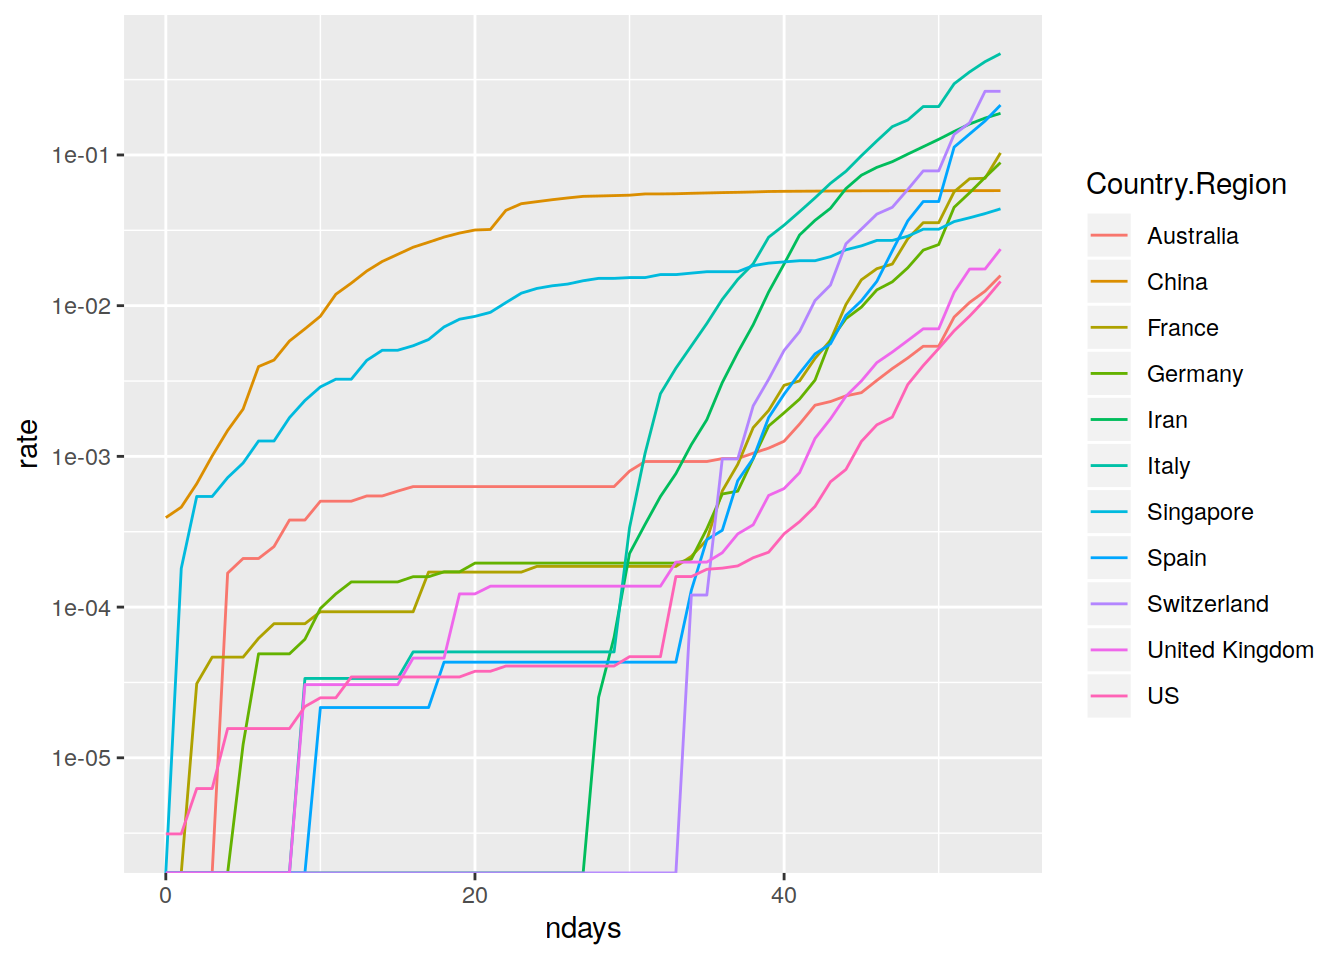
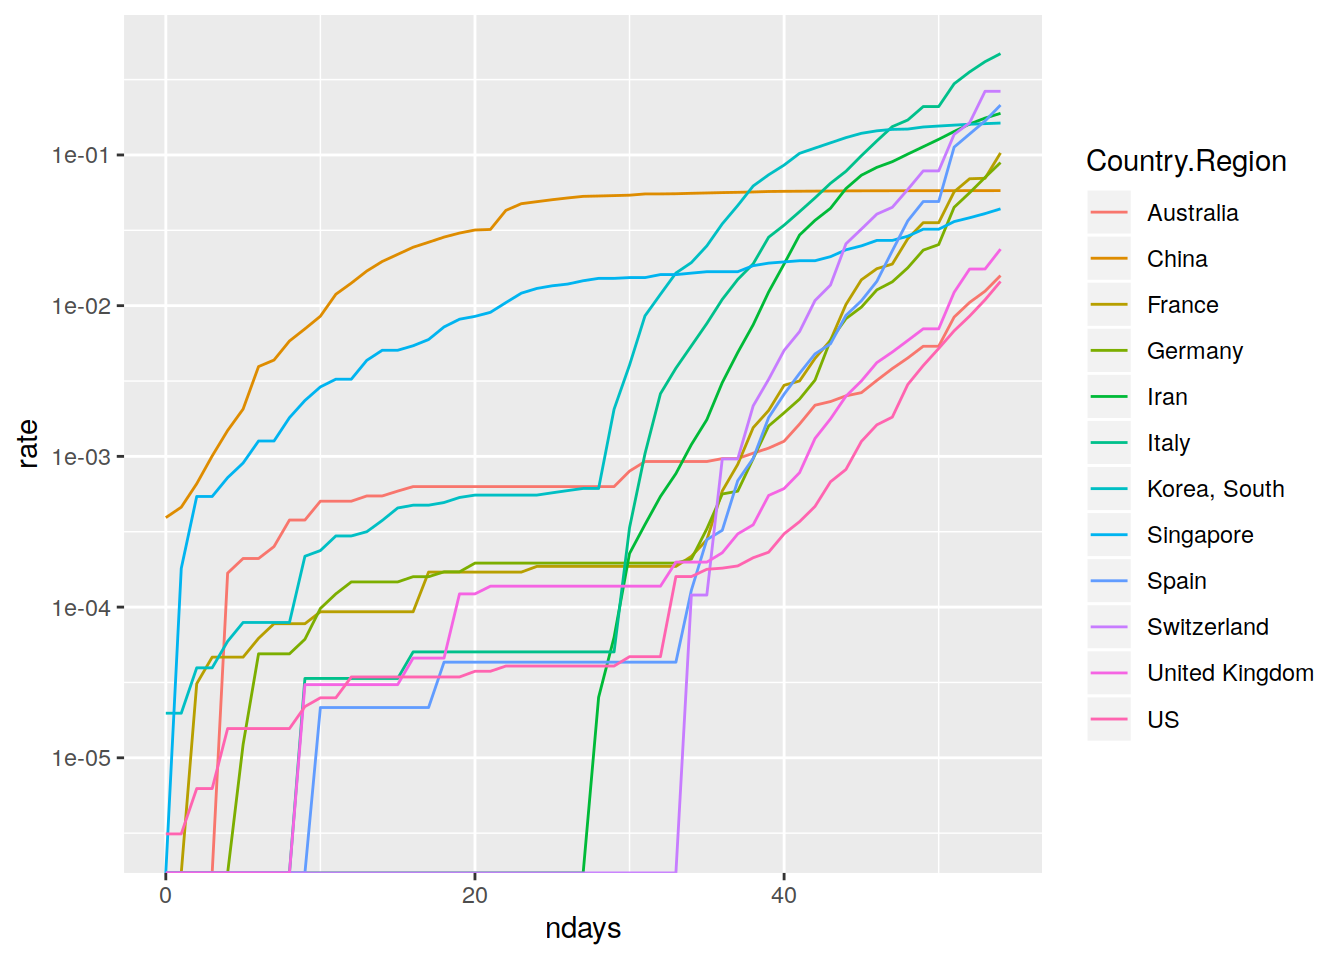
Build site.

diff --git a/docs/basic_stats.html b/docs/basic_stats.html
@@ -497,15 +497,18 @@ This reproducible <a href="http://rmarkdown.rstudio.com">R Markdown</a> analysis
 <div class="panel panel-default">
 <div class="panel-heading">
 <p class="panel-title">
-<a data-toggle="collapse" data-parent="#workflowr-checks" href="#strongRepositoryversionstrongahrefhttpsgithubcomdewollercovid19tree7469906fb467abd7d18bf921093e4bd661c5374ctargetblank7469906a"> <span class="glyphicon glyphicon-ok text-success" aria-hidden="true"></span> <strong>Repository version:</strong> <a href="https://github.com/dewoller/covid-19/tree/7469906fb467abd7d18bf921093e4bd661c5374c" target="_blank">7469906</a> </a>
+<a data-toggle="collapse" data-parent="#workflowr-checks" href="#strongRepositoryversionstrongahrefhttpsgithubcomdewollercovid19tree43b8f4bdf6f402cc824a9db5c4cd2e4e851cbe11targetblank43b8f4ba"> <span class="glyphicon glyphicon-ok text-success" aria-hidden="true"></span> <strong>Repository version:</strong> <a href="https://github.com/dewoller/covid-19/tree/43b8f4bdf6f402cc824a9db5c4cd2e4e851cbe11" target="_blank">43b8f4b</a> </a>
 </p>
 </div>
[2 lines of base64/hex data omitted]
 <div class="panel-body">
 <p>
 Great! You are using Git for version control. Tracking code development and connecting the code version to the results is critical for reproducibility. The version displayed above was the version of the Git repository at the time these results were generated. <br><br> Note that you need to be careful to ensure that all relevant files for the analysis have been committed to Git prior to generating the results (you can use <code>wflow_publish</code> or <code>wflow_git_commit</code>). workflowr only checks the R Markdown file, but you know if there are other scripts or data files that it depends on. Below is the status of the Git repository when the results were generated:
 </p>
 <pre><code>
+Ignored files:
+    Ignored:    analysis/figure/
+
 Untracked files:
     Untracked:  analysis/hospital_beds.Rmd
     Untracked:  data/aihw-hse-233-data-tables.xlsx
@@ -549,6 +552,40 @@ Message
 </tr>
 </thead>
 <tbody>
+<tr>
+<td>
+Rmd
+</td>
+<td>
+<a href="https://github.com/dewoller/covid-19/blob/43b8f4bdf6f402cc824a9db5c4cd2e4e851cbe11/analysis/basic_stats.Rmd" target="_blank">43b8f4b</a>
+</td>
+<td>
+Dennis Wollersheim
+</td>
+<td>
+2020-03-17
+</td>
+<td>
+wflow_publish(“analysis/basic_stats.Rmd”)
+</td>
+</tr>
+<tr>
+<td>
+html
+</td>
+<td>
+<a href="https://rawcdn.githack.com/dewoller/covid-19/4ed0138dc9c601214721e28e2755bd20920ec716/docs/basic_stats.html" target="_blank">4ed0138</a>
+</td>
+<td>
+Dennis Wollersheim
+</td>
+<td>
+2020-03-16
+</td>
+<td>
+Build site.
+</td>
+</tr>
 <tr>
 <td>
 html
@@ -801,22 +838,39 @@ pop %&gt;%
 mapping = tribble(
                   ~Country.Region, ~name, 
                   &#39;US&#39;, &#39;United States of America&#39;,
-                  &#39;UK&#39;, &#39;United Kingdom&#39;,
-                  &#39;Mainland China&#39;, &#39;China&#39;,
-                  &#39;South Korea&#39;, &#39;Republic of Korea&#39;,
-                  &#39;Taiwan&#39;,&#39;China, Taiwan Province of China&#39;,
+                  &#39;United Kingdom&#39;, &#39;United Kingdom&#39;,
+                  &#39;China&#39;, &#39;China&#39;,
+                  &#39;Korea, South&#39;, &#39;Republic of Korea&#39;,
+                  &#39;Taiwan*&#39;,&#39;China, Taiwan Province of China&#39;,
                   &#39;Vietnam&#39;, &#39;Viet Nam&#39;,
-                  &#39;Hong Kong&#39;, &#39;China, Hong Kong SAR&#39;,
                   &#39;Russia&#39;, &#39;Russian Federation&#39;,
                   &#39;Iran&#39;,&#39;Iran (Islamic Republic of)&#39;
 )
 
-
 coronavirus %&gt;%
+  as_tibble() %&gt;%
   left_join( mapping ) %&gt;% 
+  mutate( name = ifelse(is.na(name), Country.Region, name)) %&gt;%
   { . } -&gt; coronavirus</code></pre>
 <pre><code>Joining, by = &quot;Country.Region&quot;</code></pre>
-<pre class="r"><code>coronavirus %&gt;%
+<pre class="r"><code>if (FALSE) {
+  mapping %&gt;% 
+    anti_join( coronavirus)
+
+  mapping %&gt;% 
+    anti_join( pop )
+
+  coronavirus %&gt;%
+    left_join( mapping ) %&gt;% 
+    as_tibble() %&gt;%
+    distinct(name) %&gt;% 
+    { . } -&gt; ac
+      pop %&gt;% 
+        filter( !str_detect(as.character(name), &#39;WORLD|countries|regions&#39;) ) %&gt;%
+        distinct(name) %&gt;% anti_join(ac)
+}
+
+coronavirus %&gt;%
   filter( type==&#39;confirmed&#39; ) %&gt;%
   group_by( Country.Region ) %&gt;%
   summarise( cases = sum(cases)) %&gt;%
@@ -865,6 +919,17 @@ Date
 </tr>
 </thead>
 <tbody>
+<tr>
+<td>
+<a href="https://github.com/dewoller/covid-19/blob/4ed0138dc9c601214721e28e2755bd20920ec716/docs/figure/basic_stats.Rmd/unnamed-chunk-1-1.png" target="_blank">4ed0138</a>
+</td>
+<td>
+Dennis Wollersheim
+</td>
+<td>
+2020-03-16
+</td>
+</tr>
 <tr>
 <td>
 <a href="https://github.com/dewoller/covid-19/blob/7469906fb467abd7d18bf921093e4bd661c5374c/docs/figure/basic_stats.Rmd/unnamed-chunk-1-1.png" target="_blank">7469906</a>
@@ -954,6 +1019,17 @@ Date
 </tr>
 </thead>
 <tbody>
+<tr>
+<td>
+<a href="https://github.com/dewoller/covid-19/blob/4ed0138dc9c601214721e28e2755bd20920ec716/docs/figure/basic_stats.Rmd/unnamed-chunk-2-1.png" target="_blank">4ed0138</a>
+</td>
+<td>
+Dennis Wollersheim
+</td>
+<td>
+2020-03-16
+</td>
+</tr>
 <tr>
 <td>
 <a href="https://github.com/dewoller/covid-19/blob/7469906fb467abd7d18bf921093e4bd661c5374c/docs/figure/basic_stats.Rmd/unnamed-chunk-2-1.png" target="_blank">7469906</a>
@@ -1052,6 +1128,17 @@ Date
 <tbody>
 <tr>
 <td>
+<a href="https://github.com/dewoller/covid-19/blob/4ed0138dc9c601214721e28e2755bd20920ec716/docs/figure/basic_stats.Rmd/unnamed-chunk-3-1.png" target="_blank">4ed0138</a>
+</td>
+<td>
+Dennis Wollersheim
+</td>
+<td>
+2020-03-16
+</td>
+</tr>
+<tr>
+<td>
 <a href="https://github.com/dewoller/covid-19/blob/7469906fb467abd7d18bf921093e4bd661c5374c/docs/figure/basic_stats.Rmd/unnamed-chunk-3-1.png" target="_blank">7469906</a>
 </td>
 <td>
@@ -1106,7 +1193,6 @@ Dennis Wollersheim
 </ul>
 <p>Note, Japan had -1 cases on day 2</p>
 <pre class="r"><code>coronavirus %&gt;% 
-  mutate( name = ifelse(is.na(name), Country.Region, name)) %&gt;%
   inner_join(pop, by=&#39;name&#39; ) %&gt;% 
   filter( type==&#39;confirmed&#39; ) %&gt;%
   group_by( Country.Region ) %&gt;%
@@ -1145,6 +1231,17 @@ Date
 </tr>
 </thead>
 <tbody>
+<tr>
+<td>
+<a href="https://github.com/dewoller/covid-19/blob/4ed0138dc9c601214721e28e2755bd20920ec716/docs/figure/basic_stats.Rmd/unnamed-chunk-4-1.png" target="_blank">4ed0138</a>
+</td>
+<td>
+Dennis Wollersheim
+</td>
+<td>
+2020-03-16
+</td>
+</tr>
 <tr>
 <td>
 <a href="https://github.com/dewoller/covid-19/blob/7469906fb467abd7d18bf921093e4bd661c5374c/docs/figure/basic_stats.Rmd/unnamed-chunk-4-1.png" target="_blank">7469906</a>
@@ -1219,7 +1316,6 @@ Dennis Wollersheim
 <div id="new-cases-population-rate-by-week" class="section level1">
 <h1>New cases population rate by week</h1>
 <pre class="r"><code>coronavirus %&gt;% 
-  mutate( name = ifelse(is.na(name), Country.Region, name)) %&gt;%
   inner_join(pop, by=&#39;name&#39; ) %&gt;% 
   filter( type==&#39;confirmed&#39; ) %&gt;%
   group_by( Country.Region ) %&gt;%
@@ -1258,6 +1354,17 @@ Date
 </tr>
 </thead>
 <tbody>
+<tr>
+<td>
+<a href="https://github.com/dewoller/covid-19/blob/4ed0138dc9c601214721e28e2755bd20920ec716/docs/figure/basic_stats.Rmd/unnamed-chunk-5-1.png" target="_blank">4ed0138</a>
+</td>
+<td>
+Dennis Wollersheim
+</td>
+<td>
+2020-03-16
+</td>
+</tr>
 <tr>
 <td>
 <a href="https://github.com/dewoller/covid-19/blob/7469906fb467abd7d18bf921093e4bd661c5374c/docs/figure/basic_stats.Rmd/unnamed-chunk-5-1.png" target="_blank">7469906</a>
@@ -1299,7 +1406,6 @@ Dennis Wollersheim
 <div id="new-cases-population-rate-by-day-smoothed" class="section level1">
 <h1>New cases population rate by day, smoothed</h1>
 <pre class="r"><code>coronavirus %&gt;% 
-  mutate( name = ifelse(is.na(name), Country.Region, name)) %&gt;%
   inner_join(pop, by=&#39;name&#39; ) %&gt;% 
   filter( type==&#39;confirmed&#39; ) %&gt;%
   group_by( Country.Region ) %&gt;%
@@ -1337,6 +1443,17 @@ Date
 </tr>
 </thead>
 <tbody>
+<tr>
+<td>
+<a href="https://github.com/dewoller/covid-19/blob/4ed0138dc9c601214721e28e2755bd20920ec716/docs/figure/basic_stats.Rmd/unnamed-chunk-6-1.png" target="_blank">4ed0138</a>
+</td>
+<td>
+Dennis Wollersheim
+</td>
+<td>
+2020-03-16
+</td>
+</tr>
 <tr>
 <td>
 <a href="https://github.com/dewoller/covid-19/blob/7469906fb467abd7d18bf921093e4bd661c5374c/docs/figure/basic_stats.Rmd/unnamed-chunk-6-1.png" target="_blank">7469906</a>
@@ -1401,6 +1518,28 @@ Dennis Wollersheim
  9 Belgium        2020-03-16       172     1         0
 10 Canada         2020-03-16       163     3         1
 # … with 146 more rows</code></pre>
+</div>
+<div id="australias-choice" class="section level1">
+<h1>Australia’s choice</h1>
+<pre class="r"><code>coronavirus %&gt;% 
+  #  filter( str_detect(Country.Region, &#39;ai&#39;)) %&gt;%
+  filter( Country.Region %in% c(&#39;Australia&#39;,&#39;Italy&#39;,&#39;Iran&#39;,&#39;US&#39;, &#39;China&#39;, &#39;Korea, South&#39;, &#39;Taiwan*&#39;, &#39;Japan&#39;)) %&gt;%
+  inner_join(pop, by=&#39;name&#39; ) %&gt;% 
+  filter( type==&#39;confirmed&#39; ) %&gt;%
+  group_by( Country.Region ) %&gt;%
+  mutate(ndays = date-min(date) ) %&gt;%
+  group_by( Country.Region, ndays ) %&gt;%
+  summarise( cases=sum(cases), population = min(`2015`)) %&gt;%
+  ungroup() %&gt;%
+  group_by( Country.Region) %&gt;%
+  filter( Country.Region %in% c(&#39;Australia&#39;,&#39;Italy&#39;,&#39;Iran&#39;,&#39;US&#39;, &#39;China&#39;, &#39;Korea, South&#39;, &#39;Taiwan*&#39;, &#39;Japan&#39;)) %&gt;%
+  arrange( ndays, .by_group=TRUE) %&gt;%
+  mutate( cumcases = cumsum(cases), rate = cumsum(cases ) / population  ) %&gt;%
+  ggplot(aes( ndays, rate, color=Country.Region)) +
+  geom_line() +
+  scale_y_log10() +
+  scale_x_continuous()</code></pre>
+<p><img src="figure/basic_stats.Rmd/selected_countries-1.png" width="672" style="display: block; margin: auto;" /></p>
 <br>
 <p>
 <button type="button" class="btn btn-default btn-workflowr btn-workflowr-sessioninfo" data-toggle="collapse" data-target="#workflowr-sessioninfo" style="display: block;">
@@ -1449,7 +1588,7 @@ loaded via a namespace (and not attached):
 [31] lazyeval_0.2.2       cli_2.0.2            magrittr_1.5        
 [34] crayon_1.3.4         readxl_1.3.1         memoise_1.1.0       
 [37] evaluate_0.14        ps_1.3.2             fs_1.3.2            
-[40] fansi_0.4.1          nlme_3.1-142         xml2_1.2.2          
+[40] fansi_0.4.1          nlme_3.1-142         xml2_1.2.5          
 [43] pkgbuild_1.0.6       data.table_1.12.8    tools_3.6.1         
 [46] prettyunits_1.1.1    hms_0.5.3            lifecycle_0.2.0     
 [49] munsell_0.5.0        reprex_0.3.0         callr_3.4.2         
